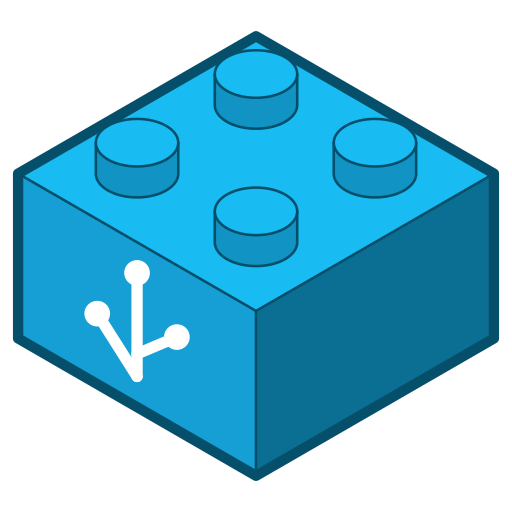
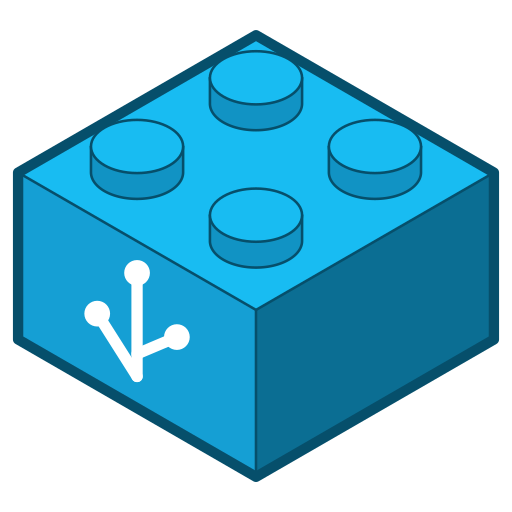
fix: match the brand brick to real 2x2 dimensions
Uses the 15.8 mm moulded footprint rather than the 16 mm nominal module, so the
body and studs each grow 1.27% relative to the plan square.

Studs stay deliberately larger than the real 2.4 mm radius: at icon sizes an
accurate stud reads as undersized, since a photograph sells it with highlights
and moulding that a 48 px icon cannot. docs/brand.md records the options
considered and why the middle one was taken.

diff --git a/scripts/generate_brand.py b/scripts/generate_brand.py
@@ -1,9 +1,10 @@
 #!/usr/bin/env python3
 """Draw the brand assets: an isometric 2x2 LEGO brick carrying the HA tree.
 
-Proportions come from a real 2x2 brick rather than from any drawing: a 16 mm
-footprint, 9.6 mm body, and 4.8 mm studs 1.8 mm tall at 8 mm pitch, all
-expressed as multiples of the plan square side. Run from the repo root:
+Proportions come from a real 2x2 brick rather than from any drawing: a 15.8 mm
+moulded footprint (two 8 mm pitches less the 0.2 mm clearance), a 9.6 mm body,
+and 4.8 mm studs 1.8 mm tall, all expressed as multiples of the plan square
+side. Run from the repo root:
 
     python3 scripts/generate_brand.py
 """
@@ -20,10 +21,12 @@ BRAND_DIR = Path("custom_components/lego/brand")
 
 ISO = 0.57735  # tan(30 degrees)
 
-# Real brick dimensions over the 16 mm footprint.
-BODY = 9.6 / 16
-STUD_R = 2.4 / 16
-STUD_RISE = 1.8 / 16
+# Real brick dimensions over the 15.8 mm moulded footprint.
+FOOTPRINT = 15.8
+BODY = 9.6 / FOOTPRINT
+# Studs are deliberately larger than the real 2.4 x 1.8 mm; see docs/brand.md.
+STUD_R = 2.65 / FOOTPRINT
+STUD_RISE = 1.5 / FOOTPRINT
 STUD_AT = (0.25, 0.75)
 
 TOP = "#18BCF2"

diff --git a/docs/brand.md b/docs/brand.md
@@ -1,0 +1,63 @@
+# Brand assets
+
+The icon and logo are an isometric 2x2 LEGO brick in Home Assistant blue, carrying
+the Home Assistant mark on its front-left face. Everything is drawn from constants
+by `scripts/generate_brand.py`; no artwork is hand-edited.
+
+```bash
+python3 scripts/generate_brand.py
+```
+
+That writes `assets/brick.svg` and the four PNGs HACS and Home Assistant expect:
+`icon.png` (256), `icon@2x.png` (512), `logo.png` (512x256) and `logo@2x.png`
+(1024x512). The `@2x` variants are not optional — a HiDPI client requests them and
+falls back inconsistently if they 404.
+
+## Dimensions
+
+Proportions come from a real brick rather than from a drawing of one, expressed as
+fractions of the moulded footprint so the drawing scales cleanly.
+
+| Measure | Real part | Constant |
+|---------|-----------|----------|
+| Footprint | 15.8 mm (two 8 mm pitches less 0.2 mm clearance) | `FOOTPRINT` |
+| Body height | 9.6 mm | `BODY` |
+| Stud pitch | 8 mm, so studs sit at 0.25 and 0.75 | `STUD_AT` |
+| Projection | 30 degrees | `ISO` |
+
+A 2x2 brick is genuinely squat: 15.8 mm across against 9.6 mm tall. It looks
+shorter still in isometric, because the width on screen is the *diagonal*
+(1.732 x 15.8), so the body reads as roughly a third of the icon's overall width.
+That is correct — a part half this height would be a plate (3.2 mm).
+
+## Studs
+
+Studs are the one deliberate departure from the real part. A real stud is 4.8 mm
+across on an 8 mm pitch — 0.60 of the spacing — which reads as undersized in a
+drawing, because a photograph also carries highlights, moulding text and shadows
+that sell the stud at a size an icon cannot.
+
+| Option | Diameter | Rise | Diameter / pitch | Notes |
+|--------|----------|------|------------------|-------|
+| Accurate | 4.8 mm | 1.8 mm | 0.60 | True to the part; small at 48 px. |
+| **Midway (current)** | **5.3 mm** | **1.5 mm** | **0.67** | Chunkier without looking cartoonish. |
+| Wider | 5.8 mm | 1.8 mm | 0.73 | Full stylised width, real rise. |
+| Wider and flatter | 5.8 mm | 1.2 mm | 0.73 | Reads as flat discs rather than cylinders. |
+
+Change `STUD_R` and `STUD_RISE` and re-run the generator to switch between these.
+
+Illustrated bricks elsewhere often oversize studs considerably, but the references
+that are freely licensed enough to measure use inconsistent projections and their
+own accuracy is disputed, so they were not treated as a target.
+
+## Drawing notes
+
+Two things that are easy to get wrong if this is ever rewritten:
+
+- **Studs are drawn after the top face**, each as its own side-plus-ellipse shape.
+  Drawing them into the same layer as the brick lets the body's edges cut through
+  their outlines.
+- **The Home Assistant mark is sheared by position, not by transform.** Applying a
+  shear to the drawing squashes the round line caps into ellipses and leaves a
+  visible seam where each node meets its branch; moving the node positions instead
+  keeps the circles true.

diff --git a/CLAUDE.md b/CLAUDE.md
@@ -36,6 +36,8 @@ coordinator, services…), invoke the `ha-integration` skill. Re-invoke it after
 | `sensor.py` / `calendar.py` | Entity platforms |
 | `services.py` | Actions, registered once in `async_setup` |
 
+Brand assets are generated, not hand-drawn — see `docs/brand.md` before touching them.
+
 ## Conventions
 
 - Conventional Commits; one version bump as the last commit before merge.
